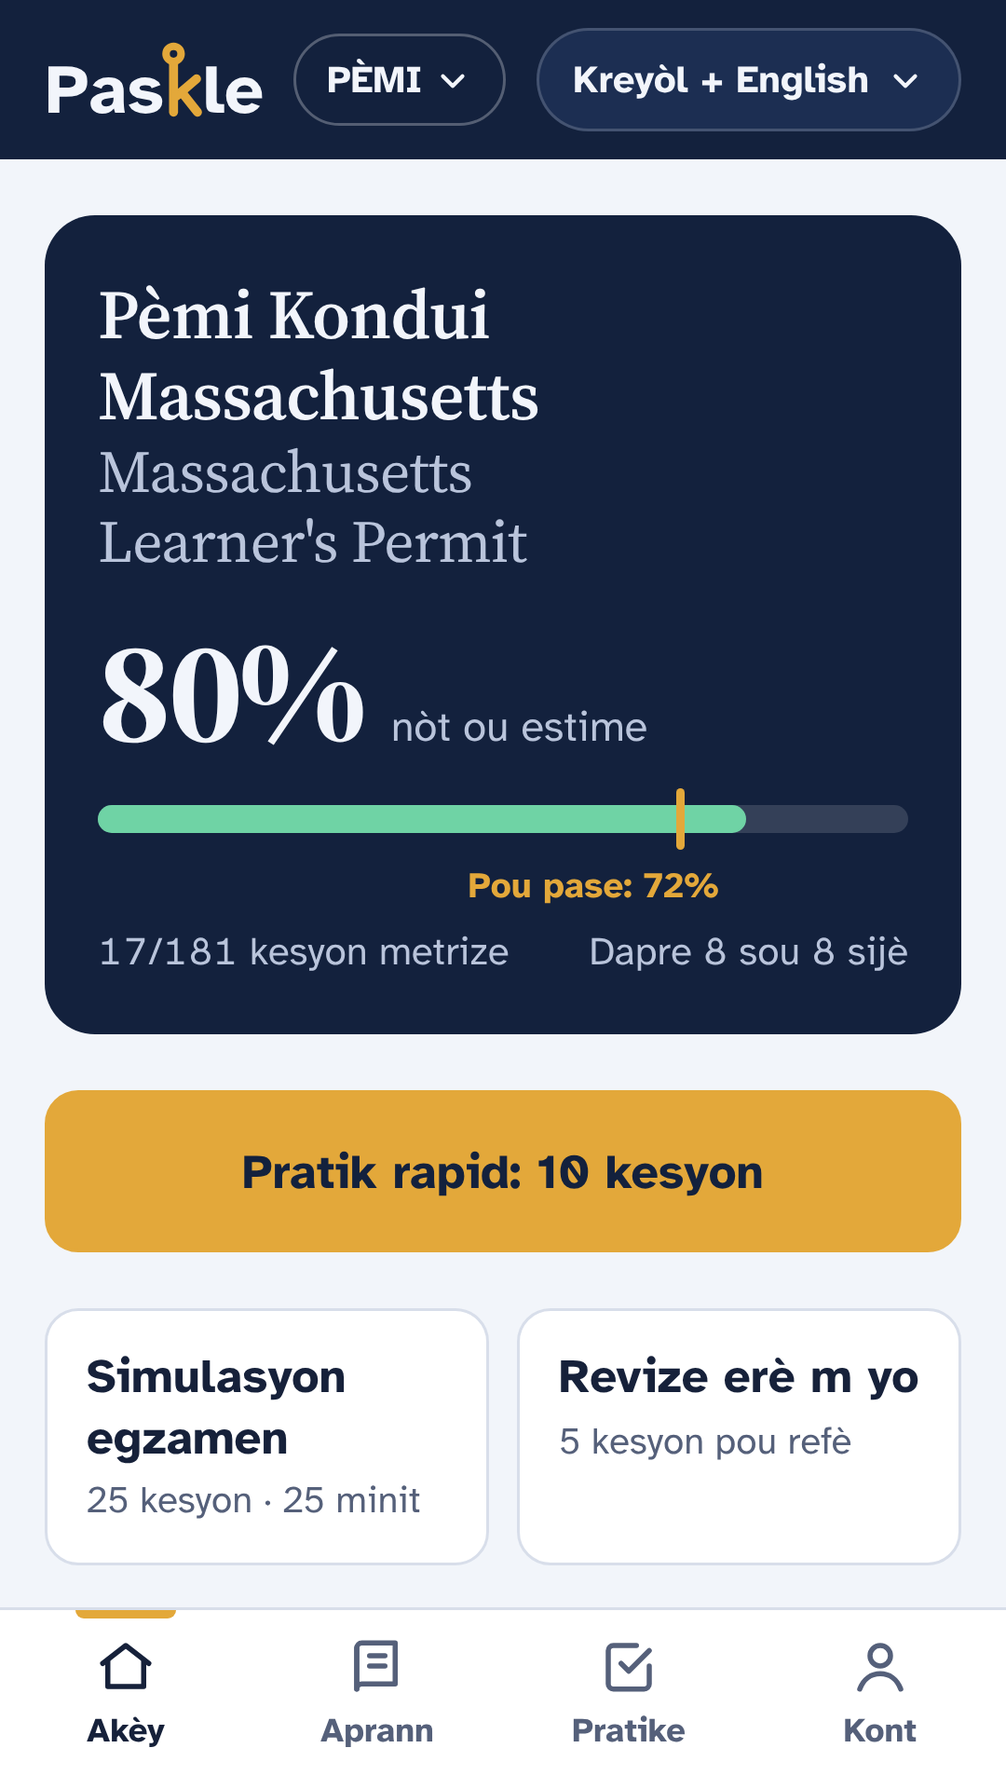
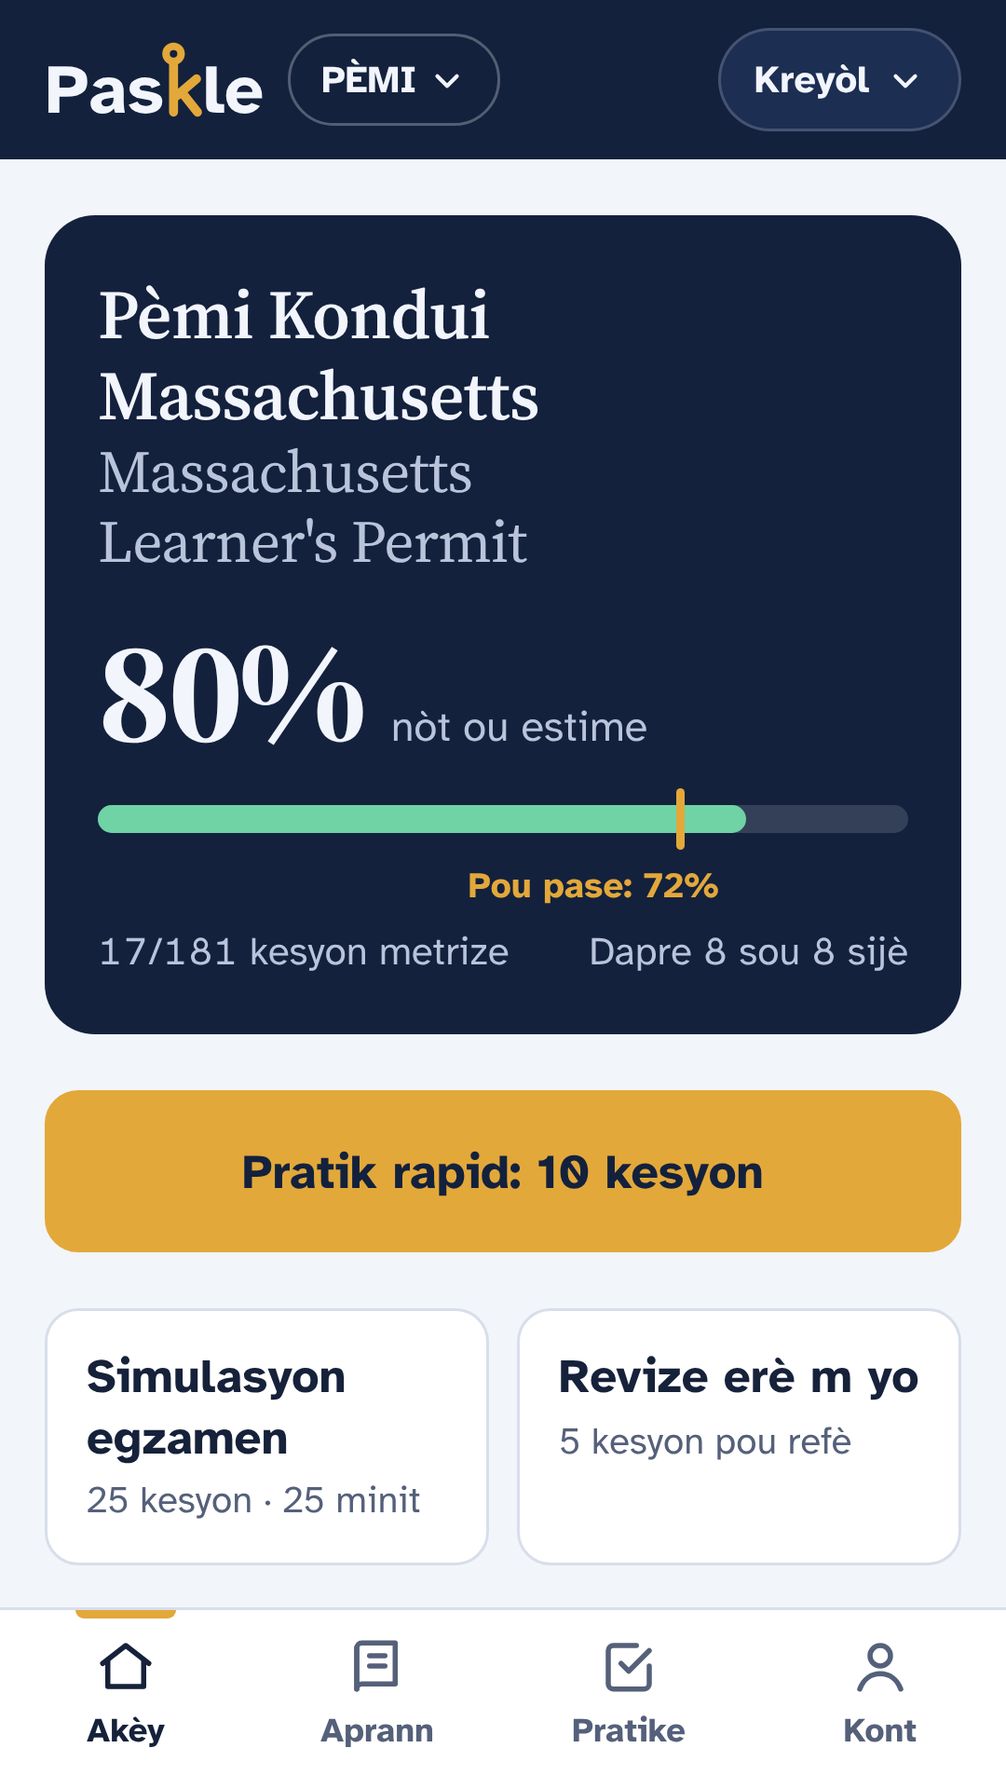
Permit label in the reader's language (PERMIT, PERMIS, PERMISO, PÈMI); header fits small phones
Claude-Session: https://claude.ai/code/session_012PyFX9j1ZqNjdWZPn75jAa

Changed region(s): [[0.4889, 0.0312, 0.8556, 0.0625], [0.275, 0.0312, 0.4583, 0.0625]]

diff --git a/index.html b/index.html
@@ -88,6 +88,10 @@ header.top{position:sticky;top:env(safe-area-inset-top,0px);z-index:5;background
 .brand b span{color:var(--brass)}
 .brand .logo{display:block;height:32px;width:auto;color:var(--on-navy)}
 @media (max-width:380px){.brand .logo{height:27px}}
+.lead{flex:none}
+.langsel{min-width:0;flex:0 1 auto}
+.lshort{display:none}
+@media (max-width:420px){.bar{gap:8px}.lead{gap:8px}.tchip{padding:5px 8px;font-size:.8rem}.langsel{padding:7px 10px}.lfull{display:none}.lshort{display:inline}}
 .logo .k{fill:var(--brass);stroke:var(--brass)}
 .brand small{display:none}
 .tchip{display:inline-flex;align-items:center;gap:4px;border:1px solid rgba(255,255,255,.28);color:var(--on-navy);background:transparent;border-radius:999px;padding:5px 11px;font-weight:700;font-size:.85rem;cursor:pointer}
@@ -327,7 +331,7 @@ body.ob nav.tabs{display:none}
 <header class="top">
   <div class="bar">
     <div class="lead"><div class="brand"><svg class="logo" viewBox="-10 -22 3188 1088" role="img" aria-label="Paskle"><g fill="currentColor"><path transform="translate(0 1000) scale(1 -1)" d="M44 0V668H301Q388 668 456.5 650.0Q525 632 564.5 585.0Q604 538 604 450Q604 363 564.5 315.5Q525 268 456.5 250.0Q388 232 301 232H202V0ZM202 363H306Q343 363 372.5 370.0Q402 377 419.5 396.0Q437 415 437 450Q437 485 419.5 503.5Q402 522 372.5 528.5Q343 535 306 535H202Z"/><path transform="translate(626 1000) scale(1 -1)" d="M195 -12Q148 -12 109.0 6.0Q70 24 47.0 56.5Q24 89 24 134Q24 195 66.5 231.0Q109 267 183.0 285.0Q257 303 353 310Q353 363 336.0 385.0Q319 407 270 407Q239 407 215.5 392.5Q192 378 184 348L56 394Q81 444 139.5 477.0Q198 510 283 510Q389 510 446.0 463.0Q503 416 503 303V194Q503 162 505.0 125.0Q507 88 511.0 55.0Q515 22 520 0H379L361 60Q333 21 290.5 4.5Q248 -12 195 -12ZM251 92Q296 92 326.0 116.0Q356 140 356 208V220Q277 213 229.0 198.5Q181 184 181 145Q181 121 201.0 106.5Q221 92 251 92Z"/><path transform="translate(1179 1000) scale(1 -1)" d="M264 -12Q177 -12 113.5 20.0Q50 52 21 114L150 161Q161 130 192.5 114.5Q224 99 267 99Q304 99 332.5 110.5Q361 122 361 145Q361 161 344.0 172.0Q327 183 284 190L195 205Q123 217 78.0 254.0Q33 291 33 353Q33 405 64.5 440.0Q96 475 148.0 492.5Q200 510 261 510Q332 510 392.5 484.5Q453 459 481 400L353 353Q346 380 320.0 389.5Q294 399 260 399Q178 399 178 359Q178 344 192.0 334.5Q206 325 239 319L331 302Q421 286 464.0 255.0Q507 224 507 162Q507 104 474.0 65.0Q441 26 386.0 7.0Q331 -12 264 -12Z"/><path transform="translate(2267.5 1000) scale(1 -1)" d="M214 0Q153 0 117.0 10.5Q81 21 65.5 51.5Q50 82 50 140V668H202V180Q202 145 216.0 134.5Q230 124 268 124H311V0Z"/><path transform="translate(2581.5 1000) scale(1 -1)" d="M296 -12Q216 -12 154.5 19.5Q93 51 58.5 110.0Q24 169 24 251Q24 330 60.5 388.0Q97 446 157.5 478.0Q218 510 290 510Q372 510 430.5 471.5Q489 433 519.0 365.5Q549 298 544 210H177Q181 158 215.5 132.0Q250 106 292 106Q327 106 352.5 116.5Q378 127 392 143L513 99Q474 42 415.5 15.0Q357 -12 296 -12ZM177 300H403Q402 348 370.0 372.5Q338 397 294 397Q251 397 217.5 374.0Q184 351 177 300Z"/></g><g class="k"><path fill-rule="evenodd" d="M1685.5,150a162.5,162.5 0 1,0 325.0,0a162.5,162.5 0 1,0 -325.0,0zM1793.4,150a54.6,54.6 0 1,1 109.2,0a54.6,54.6 0 1,1 -109.2,0z"/><g fill="none" stroke-width="130" stroke-linecap="round" stroke-linejoin="round"><path d="M1848,990V300"/><path d="M1887.0,760L2179.5,510"/><path d="M1971.5,710L2192.5,990"/></g></g></svg><small id="tagline">Egzamen an Kreyòl, ak Anglè bò kote</small></div><button type="button" class="tchip" id="trackChip" data-act="nav" data-v="switch" hidden><b>HHA</b><svg width="14" height="14" viewBox="0 0 24 24" fill="none" stroke="currentColor" stroke-width="2.4" stroke-linecap="round" stroke-linejoin="round" aria-hidden="true"><path d="M6 9l6 6 6-6"/></svg></button></div>
-    <button type="button" class="langsel" id="langSel" data-act="langMenu" aria-haspopup="menu" aria-expanded="false" aria-label="Lang / Langue / Idioma / Language"><span id="langCur">Kreyòl + English</span><svg width="14" height="14" viewBox="0 0 24 24" fill="none" stroke="currentColor" stroke-width="2.4" stroke-linecap="round" stroke-linejoin="round" aria-hidden="true"><path d="M6 9l6 6 6-6"/></svg></button>
+    <button type="button" class="langsel" id="langSel" data-act="langMenu" aria-haspopup="menu" aria-expanded="false" aria-label="Lang / Langue / Idioma / Language"><span id="langCur" class="lfull">Kreyòl + English</span><span id="langShort" class="lshort">Kreyòl</span><svg width="14" height="14" viewBox="0 0 24 24" fill="none" stroke="currentColor" stroke-width="2.4" stroke-linecap="round" stroke-linejoin="round" aria-hidden="true"><path d="M6 9l6 6 6-6"/></svg></button>
   </div>
 </header>
 
@@ -412,7 +416,7 @@ const TR={
   pass:.8,goalNote:{ht:"Objektif pratik: 80% oswa plis",en:"Practice goal: 80% or higher"},exam:{n:50,min:50},
   examNote:{ht:"Pa gen yon sèl egzamen ekri HHA: se ajans oswa lekòl ou ki bay li. Egzamen pratik sa a gen 50 kesyon sou tout 14 sijè yo.",en:"There is no single HHA written exam: your agency or school gives it. This practice test uses 50 questions from all 14 subjects."},
   topics:{scope:{ht:"Wòl ak limit travay",en:"Role and scope"},home:{ht:"Sekirite lakay",en:"Home safety"},inf:{ht:"Enfeksyon",en:"Infection control"},food:{ht:"Manje",en:"Food safety"},emerg:{ht:"Ijans ak abi",en:"Emergencies and abuse"},doc:{ht:"Rapò ak dwa",en:"Reporting and rights"}}},
- permit:{code:"PÈMI",name:{ht:"Pèmi Kondui Massachusetts",en:"Massachusetts Learner's Permit"},
+ permit:{code:"PÈMI",abbr:{ht:"PÈMI",en:"PERMIT",fr:"PERMIS",es:"PERMISO"},name:{ht:"Pèmi Kondui Massachusetts",en:"Massachusetts Learner's Permit"},
   fact:{ht:"Egzamen RMV: 25 kesyon, 18 bon pou pase, disponib an Kreyòl",en:"RMV test: 25 questions, 18 to pass, available in Haitian Creole"},
   pass:.72,goalNote:{ht:"Nòt pou pase: 72% (18 sou 25)",en:"Passing score: 72% (18 of 25)"},exam:{n:25,min:25},
   examNote:{ht:"Menm longè ak menm nòt pou pase tankou egzamen RMV a: 25 kesyon, 25 minit, 18 bon. RMV pa pibliye konbyen kesyon ki soti nan chak sijè; Paskle separe yo sou tout 8 chapit yo.",en:"Same length and passing score as the RMV test: 25 questions, 25 minutes, 18 right. The RMV does not publish how many questions come from each topic; Paskle spreads them across all 8 chapters."},
@@ -691,6 +695,7 @@ const esc=s=>String(s).replace(/[&<>"]/g,c=>({"&":"&amp;","<":"&lt;",">":"&gt;",
    French and Spanish come from data/i18n-*.js, keyed by the English string; a missing entry falls back to English. */
 const LANGS=["both","fr","es","en"];
 const LANG_NAMES={both:"Kreyòl + English",fr:"Français + English",es:"Español + English",en:"English"};
+const LANG_SHORT={both:"Kreyòl",fr:"Français",es:"Español",en:"English"};
 const isX=()=>S.lang==="fr"||S.lang==="es";
 const TX=en=>{const d=(window.I18N||{})[S.lang];return d?d[en]:undefined};
 /* Load data/i18n-fr.js or -es.js only when that mode is chosen; until it arrives the page shows English. */
@@ -704,6 +709,9 @@ const P=o=>S.lang==="en"?o.en:isX()?(TX(o.en)||o.en):o.ht; /* one plain string, 
 const LT=(en,ht)=>isX()?(TX(en)||en):ht; /* the term's meaning shown next to the English term */
 const W=o=>o[S.lang==="both"?"ht":S.lang]||o.en;
 const LO=o=>L(o.ht,o.en);
+/* Short exam label shown on screen; "code" stays the internal key. */
+const CODE=x=>x?(x.abbr?W(x.abbr):x.code):"";
+const codeName=c=>CODE(Object.values(TR).find(x=>x.code===c)||{code:c});
 function shuffle(a){a=a.slice();for(let i=a.length-1;i>0;i--){const j=Math.floor(Math.random()*(i+1));[a[i],a[j]]=[a[j],a[i]]}return a}
 function trackStats(t){const qs=Q.filter(x=>x.t===t);let done=0,ok=0,miss=0;qs.forEach(x=>{const h=S.hist[x.id];if(h){done++;if(h.ok)ok++;else miss++}});return{total:qs.length,done,ok,miss,free:qs.filter(x=>x.free).length}}
 const lockIcon='<svg width="13" height="13" viewBox="0 0 24 24" fill="none" stroke="currentColor" stroke-width="2.4" stroke-linecap="round"><rect x="5" y="11" width="14" height="10" rx="2"/><path d="M8 11V7a4 4 0 018 0v4"/></svg>';
@@ -898,7 +906,7 @@ const views={
    <div class="choices">${[["both","Kreyòl + English","Kreyòl ak Anglè bò kote"],["fr","Français + English","Français, avec l'anglais à côté"],["es","Español + English","Español, con el inglés al lado"],["en","English","English only"]].map(([v,a,b])=>`<button type="button" class="choice" data-act="obLang" data-v="${v}"><b>${a}</b><span class="muted small">${b}</span></button>`).join("")}</div>
 `;
   if(st===1)return `${dots}<button type="button" class="back bk" data-act="obStep" data-v="0">${esc(U("back"))}</button><section><h1>${esc(U("obExam"))}</h1><p class="muted">${esc(U("obExamSub"))}</p></section>
-   <div class="choices">${Object.keys(TR).map(t=>TR[t].soon?`<div class="choice soon" aria-disabled="true"><span class="code">${TR[t].code}</span><span><b>${LO(TR[t].name)}</b><span class="pill lock">${esc(U("soon"))}</span></span></div>`:`<button type="button" class="choice" data-act="obExam" data-v="${t}"><span class="code">${TR[t].code}</span><span><b>${LO(TR[t].name)}</b></span></button>`).join("")}</div>`;
+   <div class="choices">${Object.keys(TR).map(t=>TR[t].soon?`<div class="choice soon" aria-disabled="true"><span class="code">${CODE(TR[t])}</span><span><b>${LO(TR[t].name)}</b><span class="pill lock">${esc(U("soon"))}</span></span></div>`:`<button type="button" class="choice" data-act="obExam" data-v="${t}"><span class="code">${CODE(TR[t])}</span><span><b>${LO(TR[t].name)}</b></span></button>`).join("")}</div>`;
   return `${dots}<button type="button" class="back bk" data-act="obStep" data-v="1">${esc(U("back"))}</button><section><h1>${esc(U("obDate"))}</h1><p class="muted">${esc(U("obDateSub"))}</p></section>
    <label class="eyebrow" for="obd">${esc(U("examDate"))}</label><input id="obd" class="search" type="date" min="${today0().toISOString().slice(0,10)}" value="${S.examDate||""}">
    <button type="button" class="btn full" data-act="obDone">${esc(U("obGo"))}</button>
@@ -962,15 +970,15 @@ const views={
   <section><h1>${esc(U("glossTitle"))}</h1><p class="muted">${esc(U("glossSub"))}</p>
    <label for="gq" class="eyebrow">${esc(U("search"))}</label><input id="gq" class="search" type="search" placeholder="${esc(U("search"))}" autocomplete="off" value="${esc(V.q||"")}">
    <label class="small"><input type="checkbox" data-act="allTerms" ${all?"checked":""}> ${esc(U("allTerms"))}</label></section>
-  <div class="list" id="gl">${rows.map(g=>`<div class="gl" data-s="${esc(fold(g[0]+' '+g[1]+' '+LT(g[0],g[1])))}"><b>${esc(g[0])}</b><span>${esc(LT(g[0],g[1]))}</span><span class="tag">${all?g[2]:""}</span></div>`).join("")}<p class="gl-none" id="glNone" hidden>${esc(U("noTerms"))}</p></div>`;
+  <div class="list" id="gl">${rows.map(g=>`<div class="gl" data-s="${esc(fold(g[0]+' '+g[1]+' '+LT(g[0],g[1])))}"><b>${esc(g[0])}</b><span>${esc(LT(g[0],g[1]))}</span><span class="tag">${all?esc(codeName(g[2])):""}</span></div>`).join("")}<p class="gl-none" id="glNone" hidden>${esc(U("noTerms"))}</p></div>`;
  },
  switch(){
   return `<button type="button" class="back bk" data-act="nav" data-v="home">${esc(U("back"))}</button>
   <section><h1>${esc(U("switchTitle"))}</h1><p class="muted">${esc(U("switchSub"))}</p></section>
-  <div class="choices">${Object.keys(TR).map(t=>{if(TR[t].soon)return `<div class="choice soon" aria-disabled="true"><span class="code">${TR[t].code}</span><span><b>${LO(TR[t].name)}</b><span class="pill lock">${esc(U("soon"))}</span></span></div>`;const s=trackStats(t);return `<button type="button" class="choice ${t===S.track?"cur":""}" data-act="setTrack" data-v="${t}"><span class="code">${TR[t].code}</span><span><b>${LO(TR[t].name)}</b><span class="small muted">${s.ok}/${s.total} ${esc(U("mastered"))}${CONFIG.payments&&hasPrem(t)?" · Premium":""}</span></span></button>`}).join("")}</div>`;
+  <div class="choices">${Object.keys(TR).map(t=>{if(TR[t].soon)return `<div class="choice soon" aria-disabled="true"><span class="code">${CODE(TR[t])}</span><span><b>${LO(TR[t].name)}</b><span class="pill lock">${esc(U("soon"))}</span></span></div>`;const s=trackStats(t);return `<button type="button" class="choice ${t===S.track?"cur":""}" data-act="setTrack" data-v="${t}"><span class="code">${CODE(TR[t])}</span><span><b>${LO(TR[t].name)}</b><span class="small muted">${s.ok}/${s.total} ${esc(U("mastered"))}${CONFIG.payments&&hasPrem(t)?" · Premium":""}</span></span></button>`}).join("")}</div>`;
  },
  account(){
-  const u=Acct.user(),t=T(),tr=TR[t],ent=S.ent.all&&hasPrem("all")?{k:U("monthName"),d:S.ent.all}:hasPrem(t)?{k:U("passName")+" "+tr.code,d:S.ent[t]}:null;
+  const u=Acct.user(),t=T(),tr=TR[t],ent=S.ent.all&&hasPrem("all")?{k:U("monthName"),d:S.ent.all}:hasPrem(t)?{k:U("passName")+" "+CODE(tr),d:S.ent[t]}:null;
   return `<section><h1>${esc(U("acctTitle"))}</h1></section>
   ${!CONFIG.accounts?"":u?`<div class="card"><div class="row"><span><b>${esc(u.name)}</b><br><span class="small muted">${esc(u.email)}</span></span><button type="button" class="btn ghost" data-act="signOut">${esc(U("signOut"))}</button></div></div>`
    :`<div class="card"><b>${esc(U("guest"))}</b><p class="small muted">${esc(U("guestSub"))}</p><button type="button" class="btn full" data-act="nav" data-v="auth">${esc(U("signIn"))}</button></div>`}
@@ -978,7 +986,7 @@ const views={
    <b>${ent?esc(ent.k):esc(U("free"))}</b>${ent&&ent.d<"9000"?`<span class="small muted">${esc(U("until"))} ${ent.d}</span>`:""}
    ${ent?`<button type="button" class="btn ghost" data-act="nav" data-v="upgrade">${esc(U("manage"))}</button>`:`<button type="button" class="btn" data-act="nav" data-v="upgrade">${esc(U("unlock"))}</button>`}</div>`}
   <div class="list">
-   <button type="button" class="li" data-act="nav" data-v="switch"><span>${esc(U("exam_"))}</span><span class="cnt"><b>${tr.code}</b> ${svg("chev",16)}</span></button>
+   <button type="button" class="li" data-act="nav" data-v="switch"><span>${esc(U("exam_"))}</span><span class="cnt"><b>${CODE(tr)}</b> ${svg("chev",16)}</span></button>
    <button type="button" class="li" data-act="langMenu" aria-haspopup="menu"><span>${esc(U("lang"))}</span><span class="pill">${esc(LANG_NAMES[S.lang])}</span></button>
    <label class="li static" for="ed"><span>${esc(U("examDate"))}</span><input id="ed" class="date" type="date" value="${S.examDate||""}"></label>
    ${faqOf(t)?`<button type="button" class="li" data-act="nav" data-v="faq"><span>${esc(U("faq"))}</span>${svg("chev",16)}</button>`:""}
@@ -986,7 +994,7 @@ const views={
    <a class="li" href="privacy.html"><span>${esc(U("privacy"))}</span>${svg("chev",16)}</a>
    <a class="li" href="terms.html"><span>${esc(U("terms"))}</span>${svg("chev",16)}</a>
    ${u?`<button type="button" class="li danger" data-act="delAcct"><span>${esc(U("delAcct"))}</span></button>`:""}
-   <button type="button" class="li danger" data-act="reset"><span>${esc(U("reset"))} (${tr.code})</span></button>
+   <button type="button" class="li danger" data-act="reset"><span>${esc(U("reset"))} (${CODE(tr)})</span></button>
   </div>
   <p class="foot">${esc(U("disclaimer"))}</p>
   <p class="foot small muted">Paskle ${APP_VERSION}</p>`;
@@ -1004,13 +1012,13 @@ const views={
  upgrade(){
   const t=T(),tr=TR[t],s=trackStats(t);
   return `<button type="button" class="back bk" data-act="nav" data-v="home">${esc(U("back"))}</button>
-  <section><span class="eyebrow">${tr.code}</span><h1>${esc(U("upTitle"))}</h1><p class="muted">${esc(U("upSub"))}</p></section>
+  <section><span class="eyebrow">${CODE(tr)}</span><h1>${esc(U("upTitle"))}</h1><p class="muted">${esc(U("upSub"))}</p></section>
   <div class="plans">
-   <div class="plan hi"><span class="eyebrow">${esc(U("passName"))} · ${tr.code}</span><span class="price">$19.99 <small>${esc(U("passPer"))}</small></span>
+   <div class="plan hi"><span class="eyebrow">${esc(U("passName"))} · ${CODE(tr)}</span><span class="price">$19.99 <small>${esc(U("passPer"))}</small></span>
     <ul><li>${s.total} ${esc(U("qs"))} · ${esc(U("passFor"))} ${strip(LO(tr.name))}</li><li>${esc(U("exam"))}</li><li>${esc(U("skills"))}</li></ul>
     ${hasPrem(t)?`<span class="pill ok">${esc(U("active"))}</span>`:`<button type="button" class="btn full" data-act="buy" data-v="pass">${esc(U("buy"))}</button>`}</div>
    <div class="plan"><span class="eyebrow">${esc(U("monthName"))}</span><span class="price">$6.99 <small>${esc(U("monthPer"))}</small></span>
-    <ul><li>${Object.values(TR).filter(x=>!x.soon).map(x=>x.code).join(" · ")}</li><li>${esc(U("exam"))}</li></ul>
+    <ul><li>${Object.values(TR).filter(x=>!x.soon).map(CODE).join(" · ")}</li><li>${esc(U("exam"))}</li></ul>
     ${hasPrem("all")?`<span class="pill ok">${esc(U("active"))}</span>`:`<button type="button" class="btn ghost full" data-act="buy" data-v="month">${esc(U("subscribe"))}</button>`}</div>
   </div>
   <p class="small muted">${esc(U("schools"))}</p><p class="small muted">${esc(U("demoBuy"))}</p>`;
@@ -1050,7 +1058,7 @@ Object.assign(views,{
    return `<section><h2>${esc(U("byArea"))}</h2><div class="list">${rows.map(k=>{const b=by[k],q=Math.round(b.ok/b.n*100);
     return `<button type="button" class="topic" data-act="practice" data-v="${k}"><span>${LO(tr.topics[k])}</span><span class="cnt ${q>=p?"ok":""}">${b.ok}/${b.n}</span>${gauge(q,p,"sm")}</button>`}).join("")}</div></section>`})():"";
   return `<button type="button" class="back bk" data-act="quit">${esc(U("back"))}</button>
-  <section><span class="eyebrow">${tr.code}: ${esc(U("result"))}</span>
+  <section><span class="eyebrow">${CODE(tr)}: ${esc(U("result"))}</span>
    ${sess.timeUp?`<p class="muted">${esc(U("timeUp"))}</p>`:''}
    <div class="score"><b>${pct}%</b><span class="muted">${right}/${n}</span></div>
    ${gauge(pct,p)}<div class="passlbl" style="--p:${p}%"><span class="${p>70?"r":""}">${esc(fill(U("passMark"),{p}))}</span></div>
@@ -1070,7 +1078,7 @@ Object.assign(views,{
    b.forEach(([k,ht,en])=>{if(k==="p"){close();out+=`<p>${L(ht,en)}</p>`}else{if(mode!==k){close();out+=k==="n"?'<ol class="gl-list">':'<ul class="gl-list">';mode=k}out+=`<li>${L(ht,en)}</li>`}});close();return out};
   const open=hasPrem(g.t)||g.free||(g.t==="hha"&&T()==="cna"&&hasPrem("cna")),vis=g.sections.map((s,i)=>open||i===0||i===V.sec);
   return `${V.from?`<button type="button" class="back bk" data-act="backFrom">${esc(U("backQuiz"))}</button>`:`<button type="button" class="back bk" data-act="nav" data-v="learn">${esc(U("back"))}</button>`}
-  <section><span class="eyebrow">${tr.code}: ${esc(U("chapter"))} ${g.n}</span><h1>${LO(g.title)}</h1><p class="muted small">${LO(g.blueprint)}</p></section>
+  <section><span class="eyebrow">${CODE(tr)}: ${esc(U("chapter"))} ${g.n}</span><h1>${LO(g.title)}</h1><p class="muted small">${LO(g.blueprint)}</p></section>
   ${g.observed?`<span class="pill ok" style="align-self:flex-start">${esc(U("observed"))}</span>`:""}
   ${g.sections.map((s,i)=>!vis[i]?"":`<section class="gsec${i===V.sec?" hl":""}" id="sec-${i}"><h2>${LO(s.h)}</h2>${s.sign?signSvg(s.sign,"gsign"):""}${blocks(s.b)}<p class="cite">${esc(U("srcLabel"))}: ${s.src.map(id=>`<a href="${SRC[id].url}" target="_blank" rel="noopener">${esc(SRC[id].name)}</a>`).join(" · ")}${s.pg?`, ${esc(U("pg"))} ${esc(s.pg)}`:""}</p></section>`).join("")}
   ${!open?`<div class="banner"><span>${esc(U("chLocked"))}</span><button type="button" class="btn" data-act="nav" data-v="upgrade">${esc(U("unlock"))}</button></div>`:""}
@@ -1083,7 +1091,7 @@ Object.assign(views,{
  faq(){
   const t=T(),F=faqOf(t)||[];
   return `<button type="button" class="back bk" data-act="nav" data-v="home">${esc(U("back"))}</button>
-  <section><span class="eyebrow">${TR[t].code}</span><h1>${esc(U("faq"))}</h1><p class="muted">${esc(U(t==="permit"?"faqSubPermit":"faqSub"))}</p></section>
+  <section><span class="eyebrow">${CODE(TR[t])}</span><h1>${esc(U("faq"))}</h1><p class="muted">${esc(U(t==="permit"?"faqSubPermit":"faqSub"))}</p></section>
   ${(()=>{const G=t==="permit"?window.PERMIT_FAQ_GROUPS||{}:{};let cur=null;return F.map(f=>{const h=f[6]&&f[6]!==cur&&G[f[6]]?`<h2 class="faqh">${L(G[f[6]][0],G[f[6]][1])}</h2>`:"";cur=f[6];
    return h+`<details class="lesson"><summary><span><b>${L(f[0],f[1])}</b></span></summary><p>${L(f[2],f[3])}</p><p class="cite">${esc(U("srcLabel"))}: ${f[4].map(id=>`<a href="${SRC[id].url}" target="_blank" rel="noopener">${esc(SRC[id].name)}</a>${id==="S7"&&f[5]?`, ${esc(U("pg"))} ${esc(f[5])}`:""}`).join(" · ")}</p></details>`}).join("")})()}
   <p class="foot">${esc(U("disclaimer"))}</p>`;
@@ -1161,10 +1169,10 @@ function render(){
  document.body.classList.toggle("ob",ob);
  document.body.classList.toggle("focus",V.view==="quiz");
  document.documentElement.lang=S.lang==="both"?"ht":S.lang;
- document.getElementById("langCur").textContent=LANG_NAMES[S.lang];
+ document.getElementById("langCur").textContent=LANG_NAMES[S.lang];document.getElementById("langShort").textContent=LANG_SHORT[S.lang];
  document.getElementById("tagline").textContent=U("tag");
  const off=document.getElementById("offline");off.hidden=navigator.onLine!==false;off.textContent=U("offline");
- const tc=document.getElementById("trackChip");tc.hidden=ob||!T();if(T())tc.querySelector("b").textContent=TR[T()].code;
+ const tc=document.getElementById("trackChip");tc.hidden=ob||!T();if(T())tc.querySelector("b").textContent=CODE(TR[T()]);
  document.querySelectorAll("[data-ui]").forEach(el=>el.textContent=U(el.dataset.ui));
  const tab={home:"home",switch:"home",faq:"home",quiz:"practice",result:"practice",practice:"practice",learn:"learn",guide:"learn",glossary:"learn",account:"account",auth:"account",upgrade:"account",sources:"account"}[V.view];
  document.querySelectorAll("nav.tabs button").forEach(b=>b.dataset.v===tab?b.setAttribute("aria-current","page"):b.removeAttribute("aria-current"));

diff --git a/sw.js b/sw.js
@@ -1,7 +1,7 @@
 /* Paskle service worker: makes practice work offline.
    App files and fonts are saved on install; language files are saved the first time they load.
    Bump VERSION whenever any file changes, so phones pick up the new version. */
-const VERSION = "paskle-2026-10-23b";
+const VERSION = "paskle-2026-10-23c";
 const CORE = [
   "./", "index.html", "manifest.webmanifest",
   "data/hha-a.js", "data/hha-b.js", "data/hha-c.js", "data/hha-d.js", "data/hha-map.js",

diff --git a/android-app/README.md b/android-app/README.md
@@ -57,5 +57,4 @@ cd android-app && npm run icons # rebuild the Android icon and splash files
 
 - **Premium and sign-in are switched off** for now (`CONFIG={payments:false,accounts:false}` near the top of the script in `index.html`). Everything is free and nothing is locked, on the website and in the app. Google Play requires Google Play Billing for selling digital content in an app, and requires in-app and web account deletion once accounts exist, so turn these on only after billing and real accounts are built.
 - **Create the privacy@paskleapp.com mailbox** in Hostinger. It is the contact on the privacy page and in the listing.
-- **Settle the app name.** The package name `app.lexcellent.paskle` can never change after the first upload.
 - **Test on a real phone** (Back button, Listen, dark mode, offline) with an internal-testing build before production.
